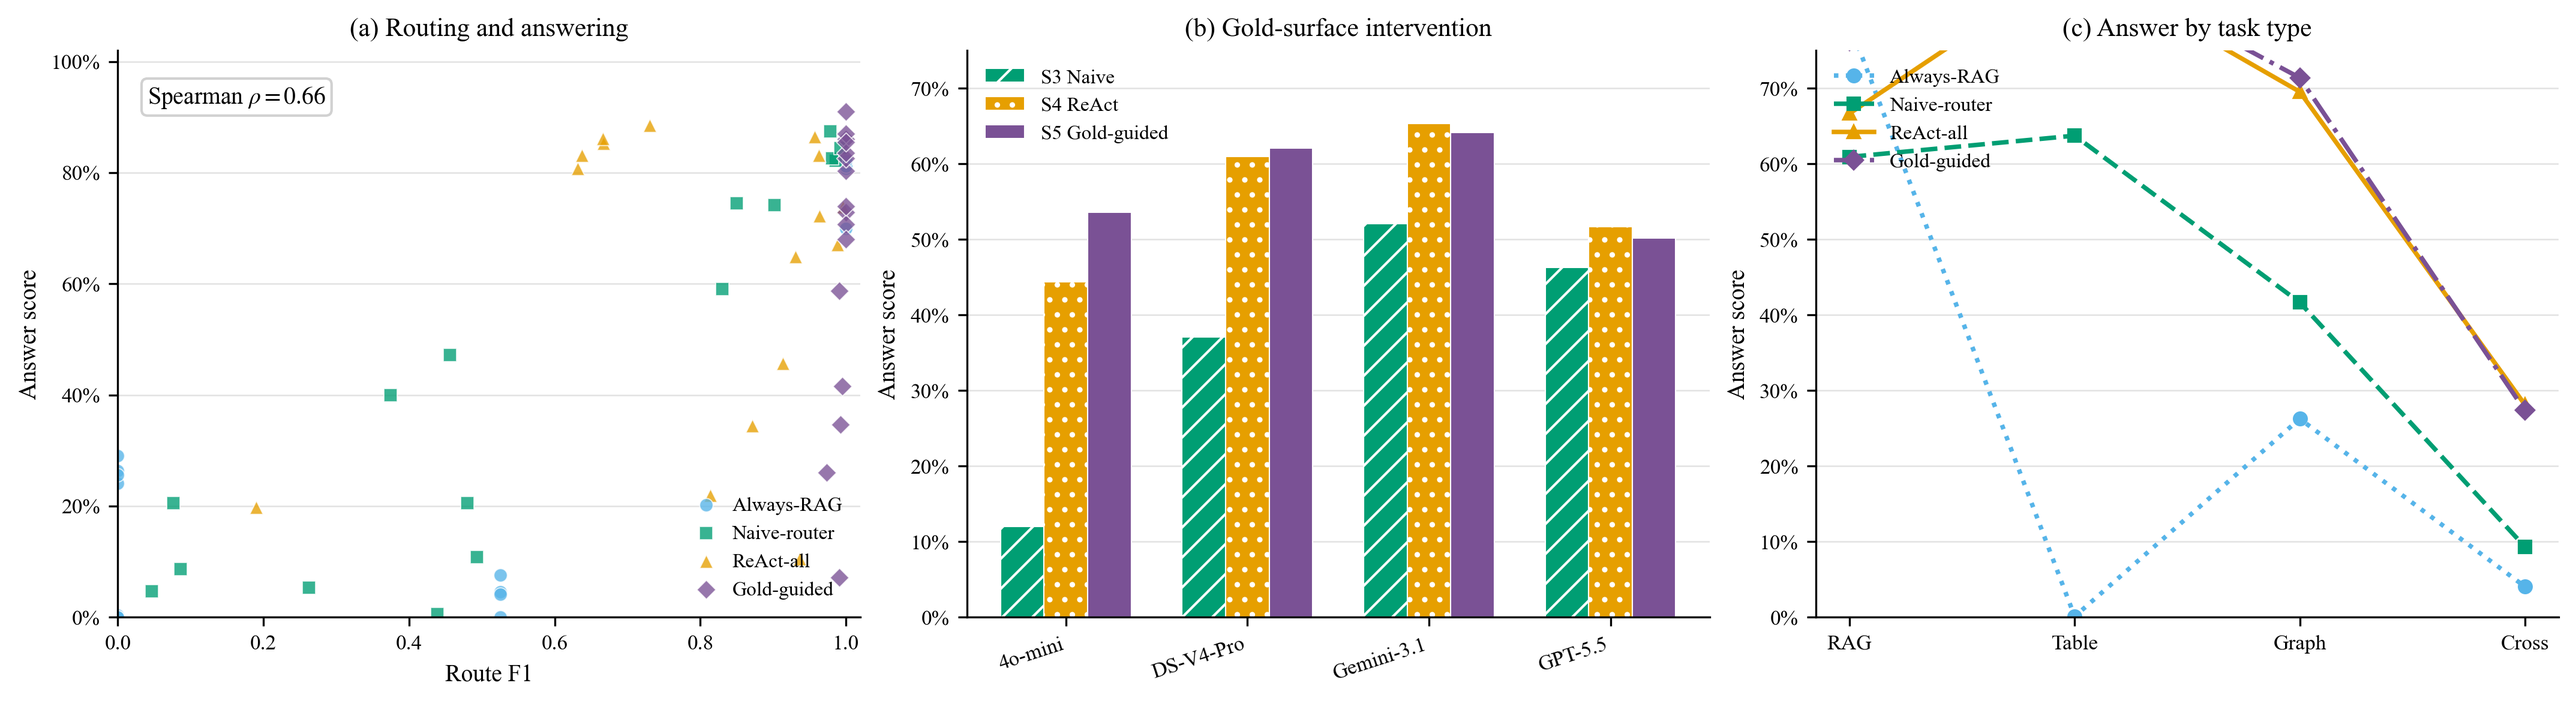
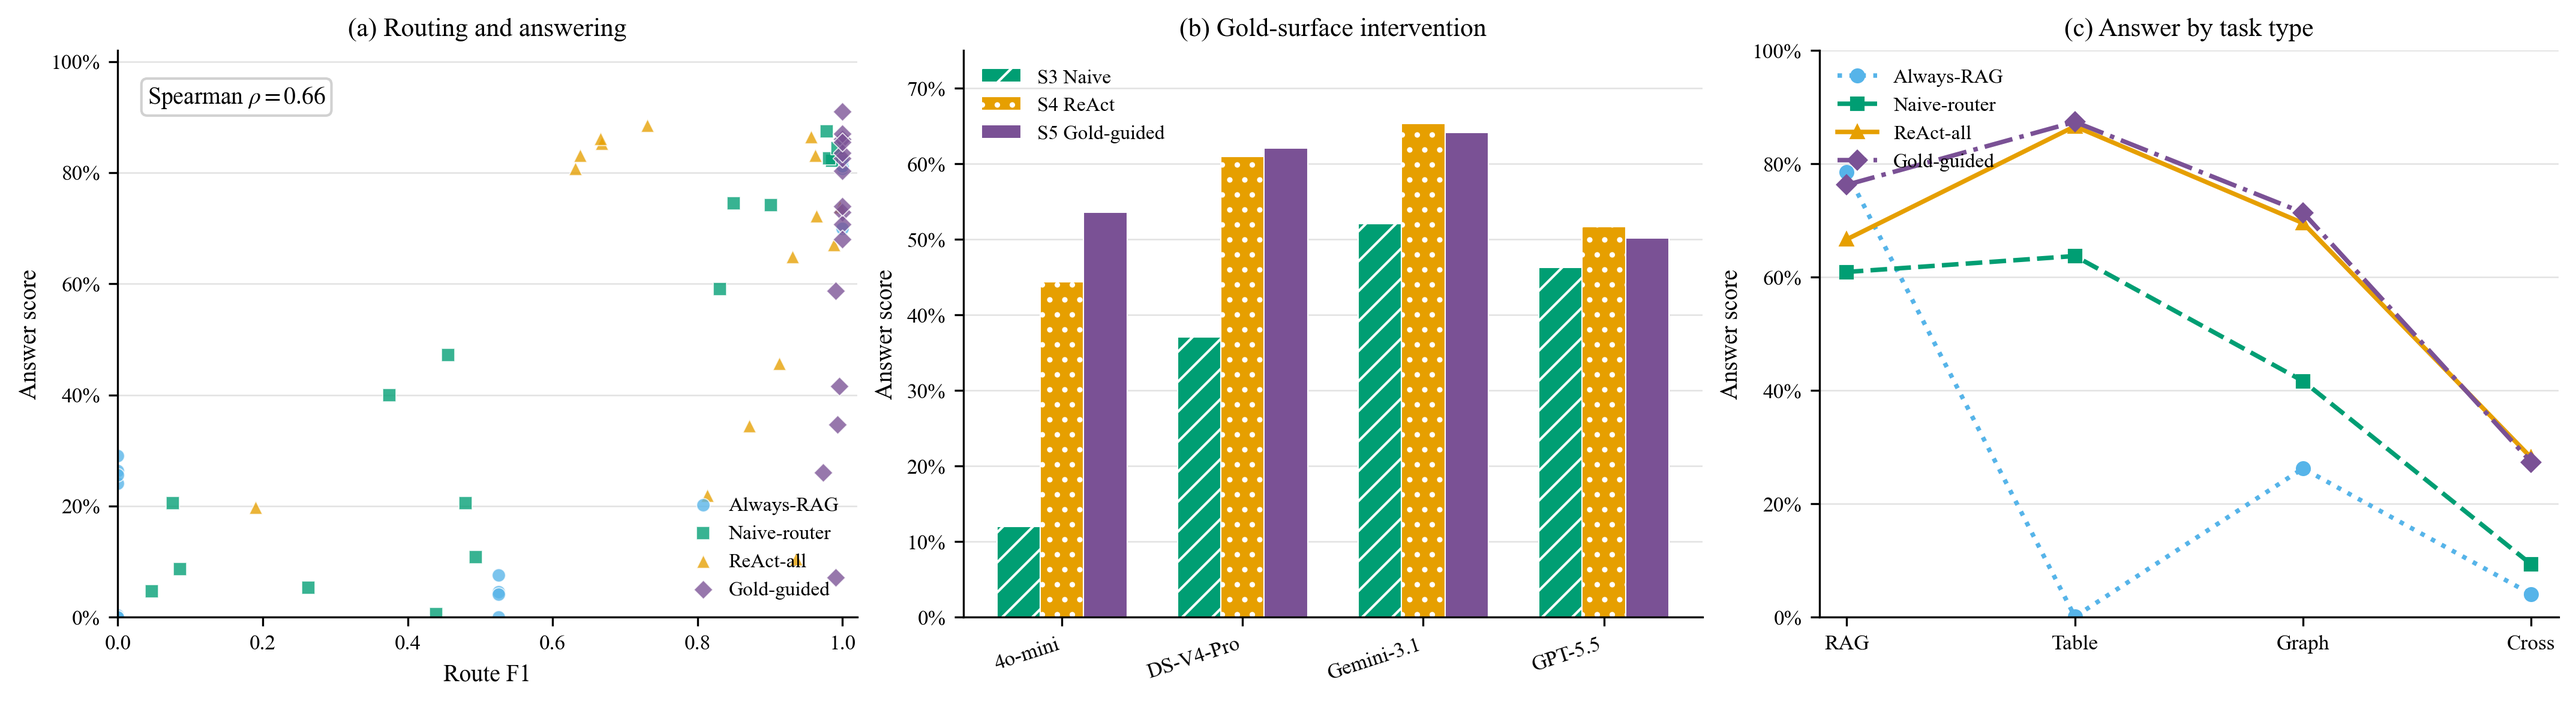
Fix Figure 3 per-surface axis clipping

diff --git a/results/plot_figure3.py b/results/plot_figure3.py
@@ -69,7 +69,8 @@ for setting in ("S2", "S3", "S4", "S5"):
         ax[2].plot(surface_labels, vals, marker=MARKERS[setting], markersize=5,
                    linewidth=1.8, linestyle=styles[setting], color=COLORS[setting],
                    label=LABELS[setting])
-ax[2].set(ylabel="Answer score", title="(c) Answer by task type", ylim=(0, 0.75))
+ax[2].set(ylabel="Answer score", title="(c) Answer by task type", ylim=(0, 1.0))
+ax[2].margins(x=0.04)
 ax[2].legend(loc="upper left", frameon=False)
 
 for axis in ax:
